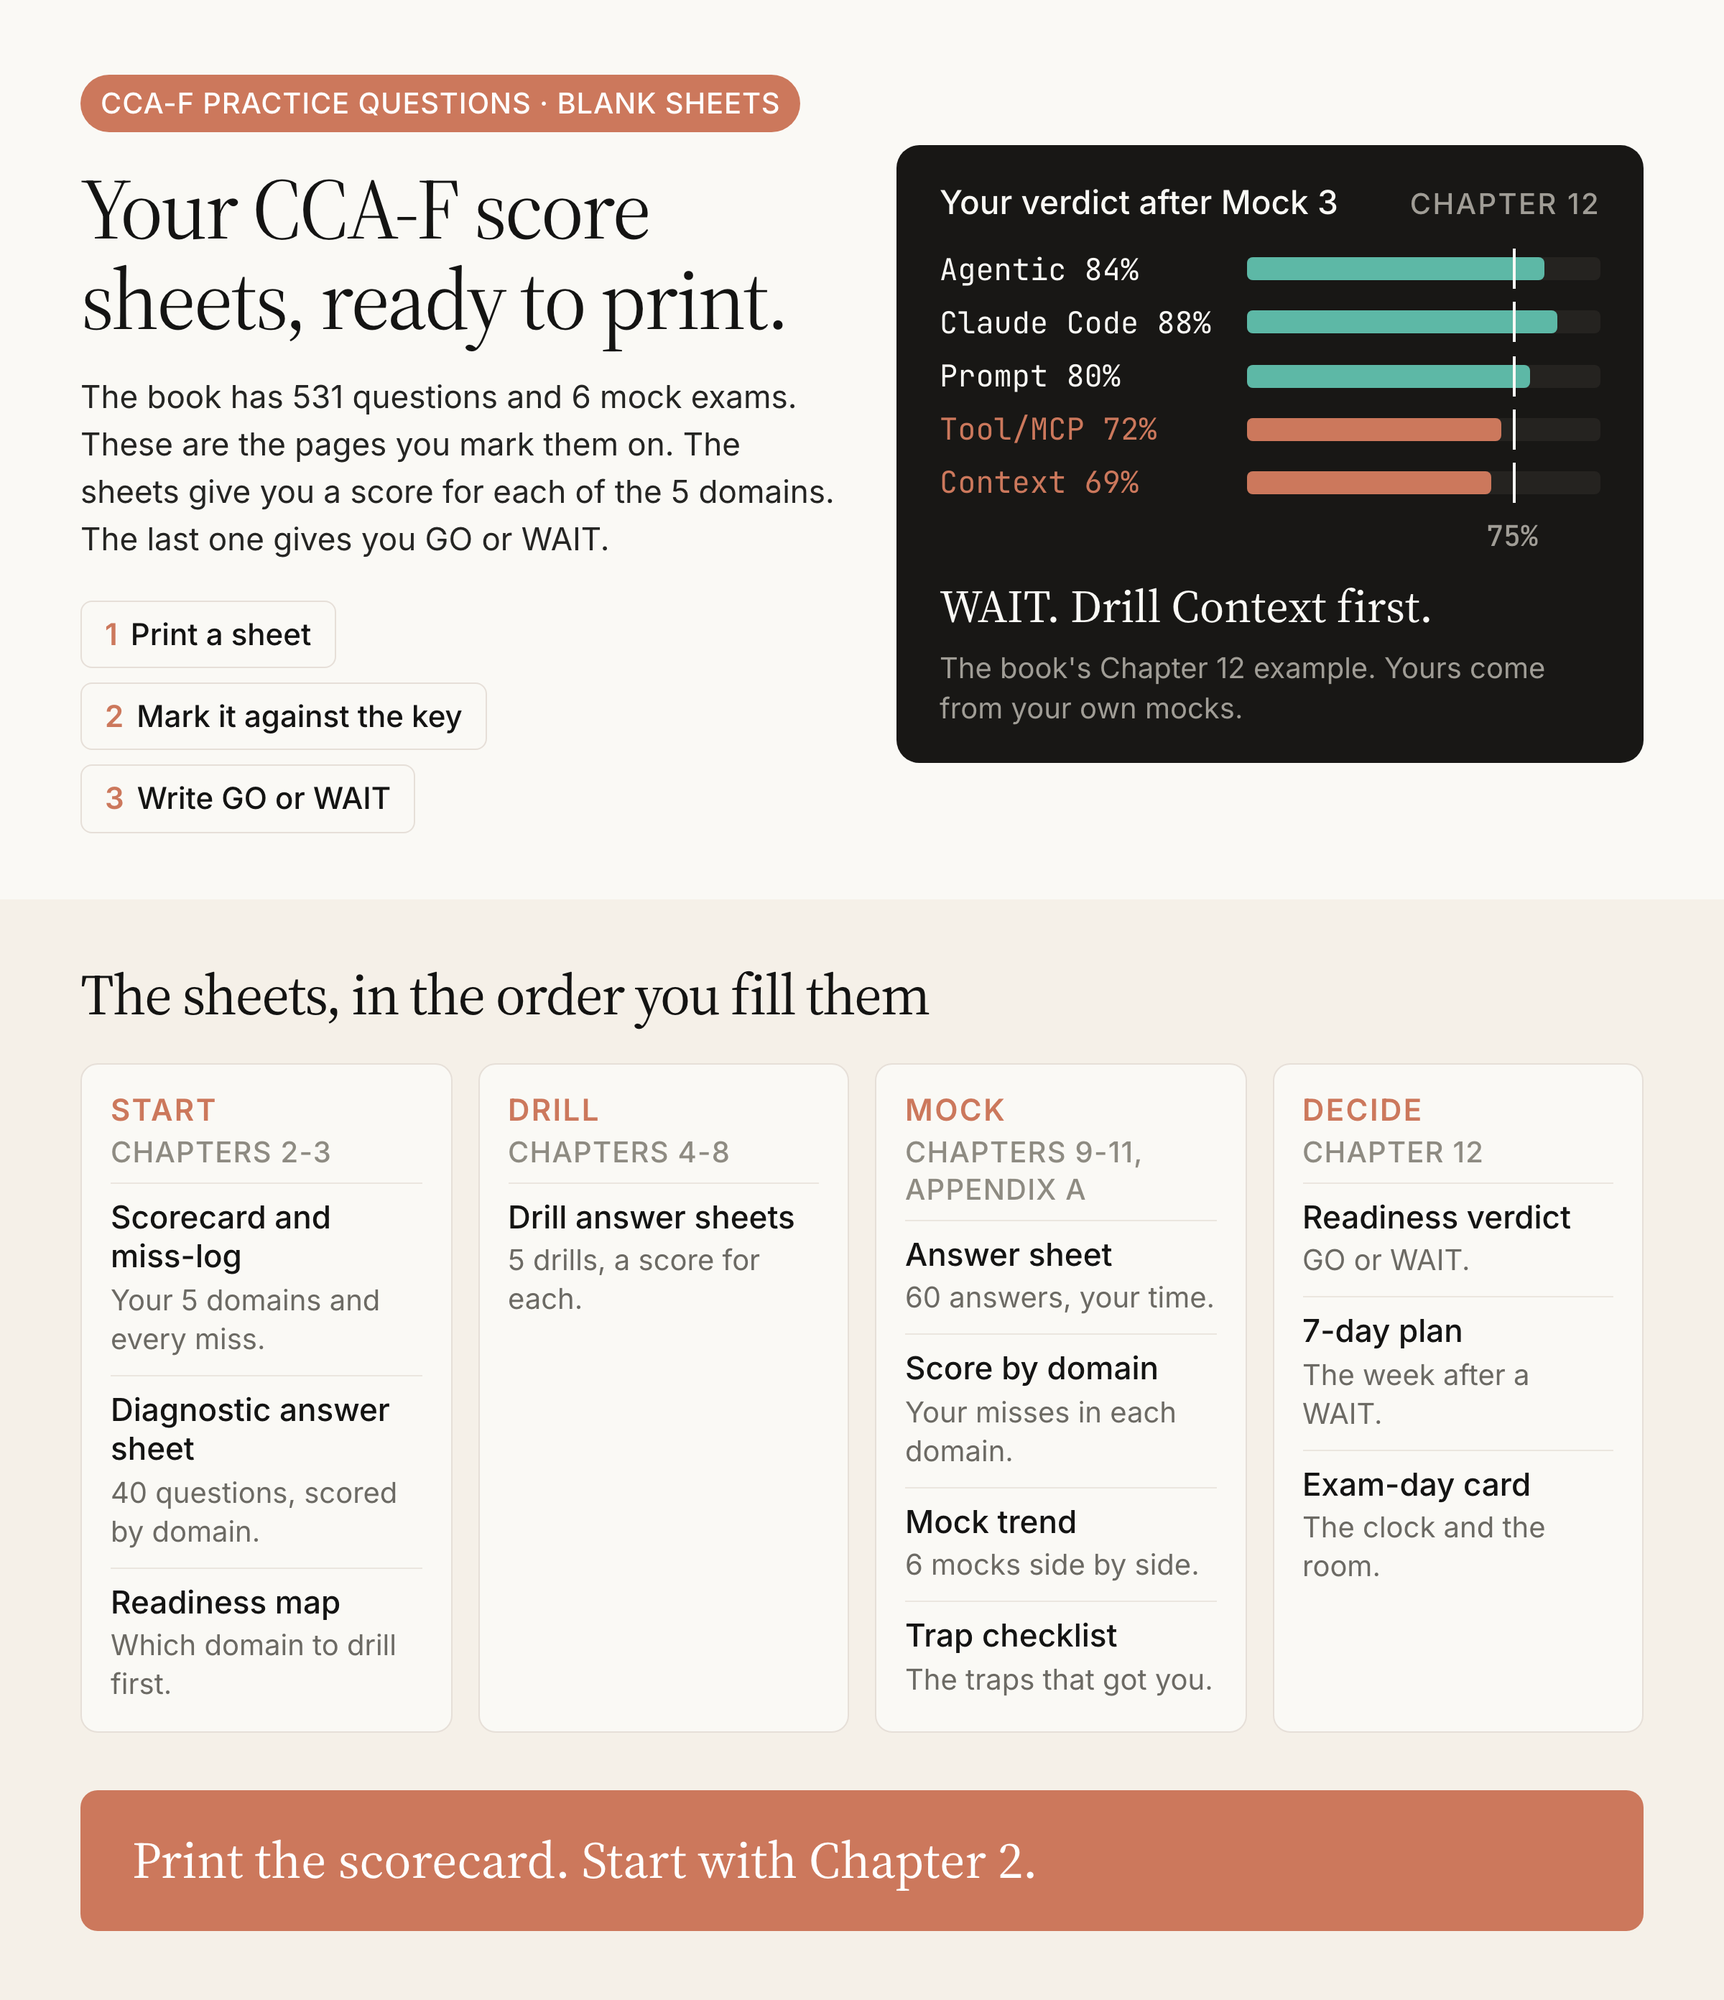
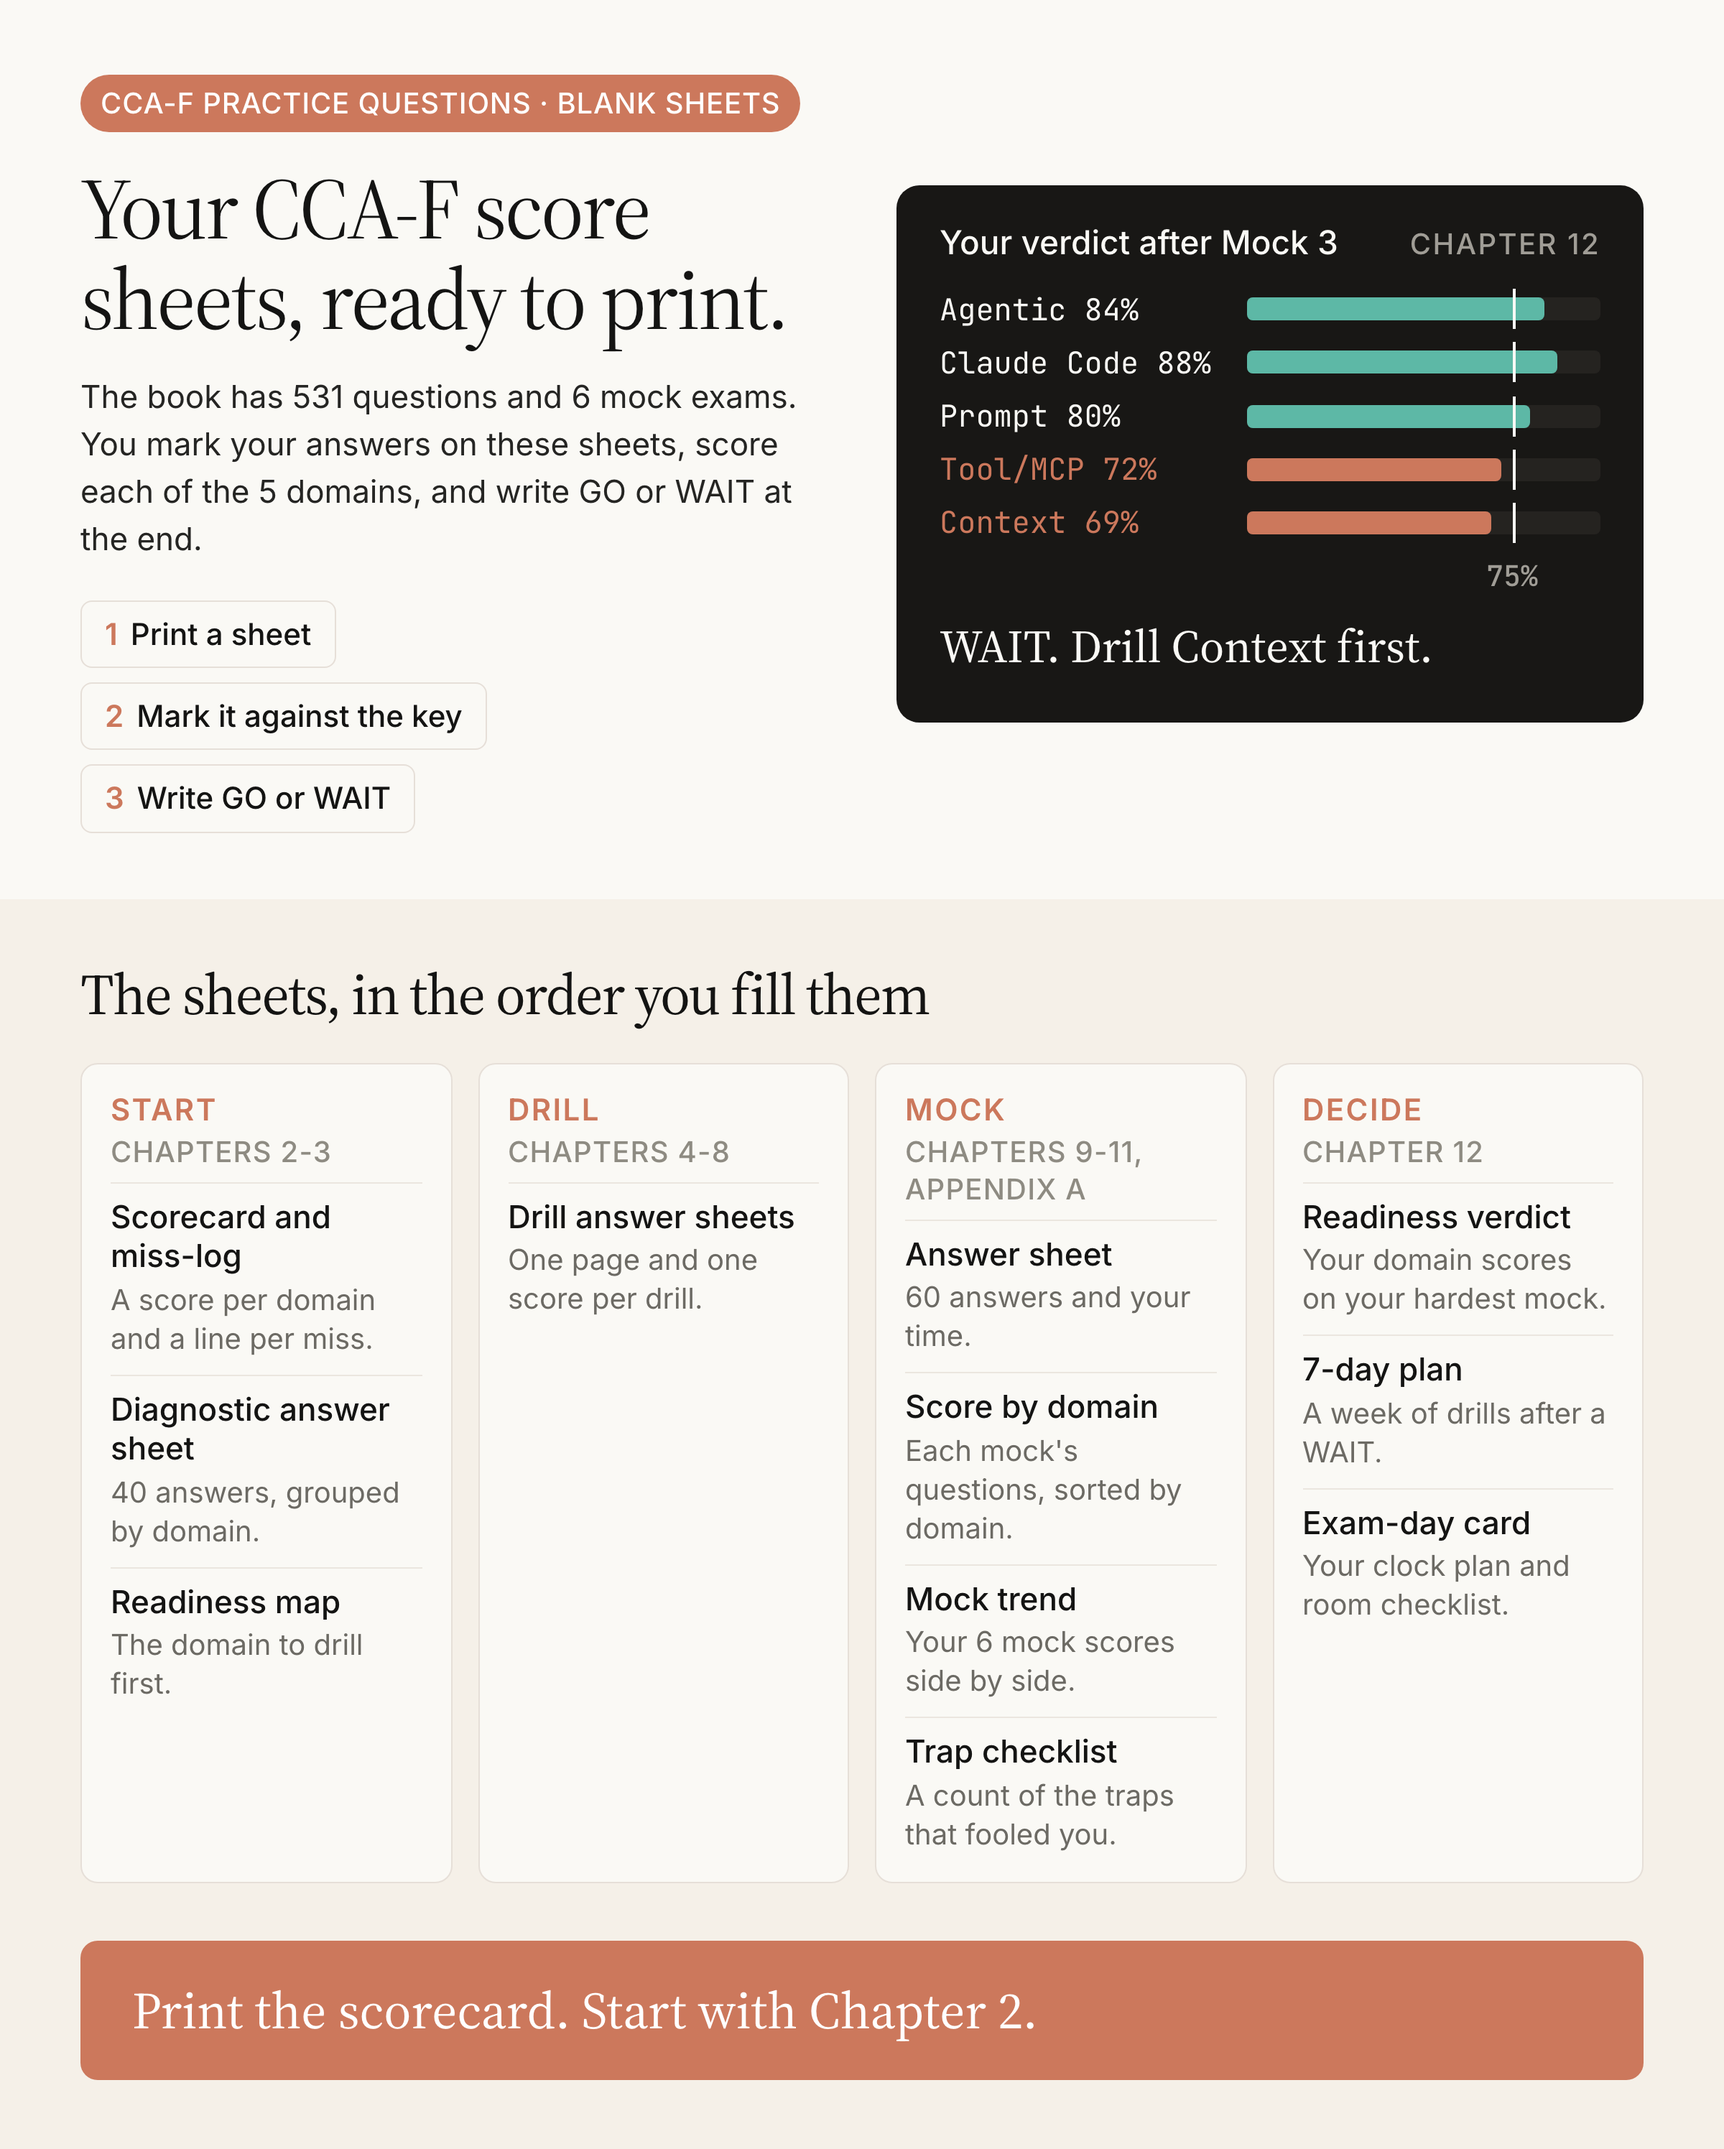
Clearer wording on the README picture

diff --git a/README.md b/README.md
@@ -4,7 +4,7 @@
 
 The companion to the book *Claude Certified Architect Foundations: 500+ Practice Questions*, from [youcanbuildthings.com](https://youcanbuildthings.com).
 
-![The 11 score sheets in the order you fill them, grouped Start (Chapters 2-3), Drill (4-8), Mock (9-11 and Appendix A) and Decide (12), beside the book's Chapter 12 example verdict: Agentic 84%, Claude Code 88%, Prompt 80%, Tool/MCP 72% and Context 69% against the 75% line, ending "WAIT. Drill Context first."](docs/images/hero.png)
+![The 11 score sheets in the order you fill them, grouped Start (Chapters 2-3), Drill (4-8), Mock (9-11 and Appendix A) and Decide (12), beside a verdict after Mock 3: Agentic 84%, Claude Code 88%, Prompt 80%, Tool/MCP 72% and Context 69% against the 75% line, ending "WAIT. Drill Context first."](docs/images/hero.png)
 
 The questions and keys are in the book. These are the pages you mark them on, already ruled. Two terms from Chapter 2: the *scorecard* has one row per domain, and you fill it after the diagnostic and every drill. The *drill bar* is 75%, the score you want on a set before moving on. It's not the exam's 720 pass mark, and Chapter 2 explains why the two don't convert. Pick your starting point below.
 
